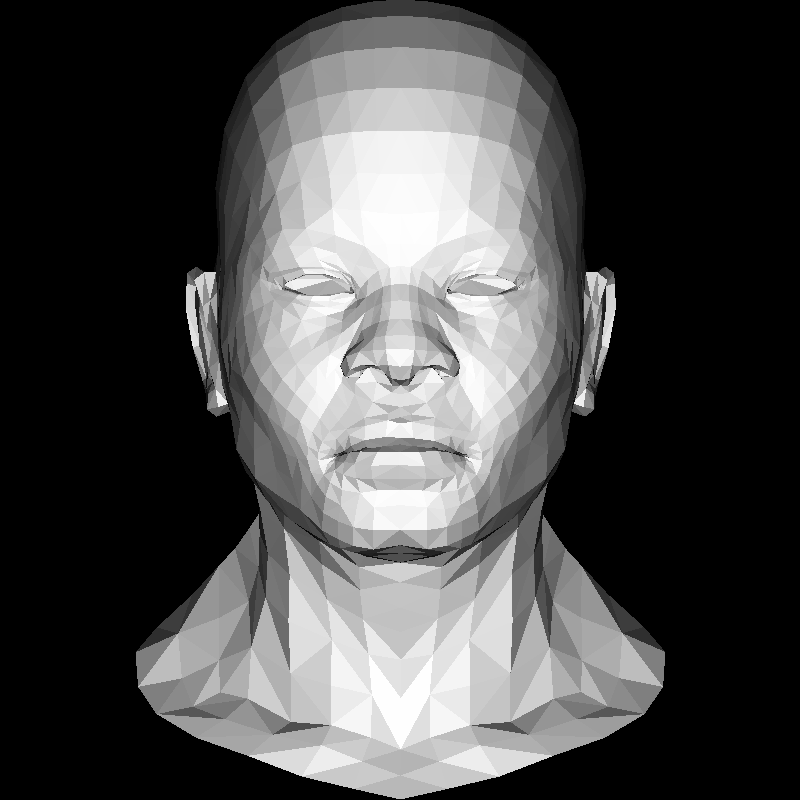
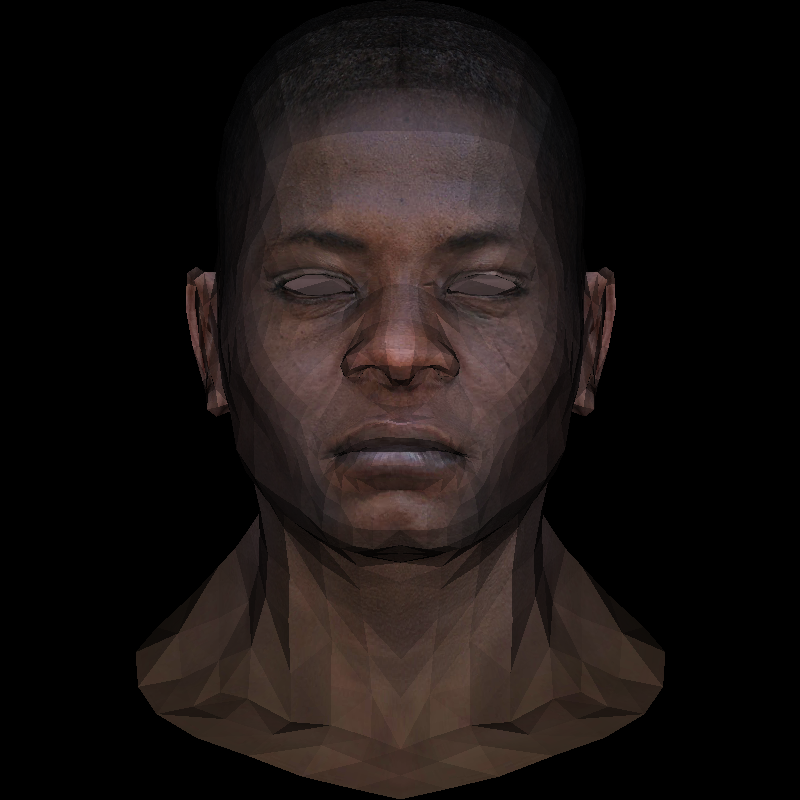
flat shading render with texture

diff --git a/src/lib.rs b/src/lib.rs
@@ -2,7 +2,7 @@
 
 use {
     nalgebra::{Point2, Point3, Vector, Vector3},
-    obj::Obj,
+    obj::{Obj, TexturedVertex},
 };
 
 pub use failure::Error;
@@ -87,6 +87,15 @@ fn barycentric(pts: [Point2<f32>; 3], p: Point2<f32>) -> Point3<f32> {
     }
 }
 
+fn un_barycentric(pts: [Point2<f32>; 3], p: Point3<f32>) -> Point2<f32> {
+    use nalgebra::Matrix2x3;
+
+    let m = Matrix2x3::from_columns(&[pts[0].coords, pts[1].coords, pts[2].coords]).transpose();
+    let v = p.coords.transpose() * m;
+
+    Point2::new(v[0], v[1])
+}
+
 pub fn triangle(pts: [Point2<f32>; 3], image: &mut Image, color: Color) {
     let bbox_min_x = f32::min(f32::min(pts[0][0], pts[1][0]), pts[2][0]);
     let bbox_min_y = f32::min(f32::min(pts[0][1], pts[1][1]), pts[2][1]);
@@ -133,6 +142,59 @@ pub fn triangle_with_zbuffer(
                 let idx = coord_to_idx(x, y, image.width);
 
                 if zbuffer[idx] < z {
+                    zbuffer[idx] = z;
+                    image.data[idx] = color;
+                }
+            }
+        }
+    }
+}
+
+pub fn triangle_with_zbuffer_with_texture(
+    pts: [Point3<f32>; 3],
+    zbuffer: &mut [f32],
+    image: &mut Image,
+    texture: &Image,
+    texture_coords: [Point3<f32>; 3],
+    intensity: f32,
+) {
+    let bbox_min_x = f32::min(f32::min(pts[0][0], pts[1][0]), pts[2][0]);
+    let bbox_min_y = f32::min(f32::min(pts[0][1], pts[1][1]), pts[2][1]);
+    let bbox_max_x = f32::max(f32::max(pts[0][0], pts[1][0]), pts[2][0]);
+    let bbox_max_y = f32::max(f32::max(pts[0][1], pts[1][1]), pts[2][1]);
+
+    for x in (bbox_min_x.floor() as u32)..(bbox_max_x.ceil() as u32) {
+        for y in (bbox_min_y.floor() as u32)..(bbox_max_y.ceil() as u32) {
+            let p = Point2::new(x as f32, y as f32);
+
+            let bc_screen = barycentric([pts[0].xy(), pts[1].xy(), pts[2].xy()], p);
+
+            if bc_screen[0] >= 0f32 && bc_screen[1] >= 0f32 && bc_screen[2] >= 0f32 {
+                let mut z = 0f32;
+
+                for i in 0..3 {
+                    z += pts[i][2] * bc_screen[i];
+                }
+
+                let idx = coord_to_idx(x, y, image.width);
+
+                if zbuffer[idx] < z {
+                    let texture_coords = texture_coords
+                        .iter()
+                        .map(|vt| {
+                            Point2::new(vt[0] * texture.width as f32, vt[1] * texture.height as f32)
+                        })
+                        .collect::<Vec<_>>();
+
+                    let vt = un_barycentric(
+                        [texture_coords[0], texture_coords[2], texture_coords[1]],
+                        bc_screen,
+                    );
+
+                    let t_idx = coord_to_idx(vt[0] as u32, vt[1] as u32, texture.width);
+
+                    let color = texture.data[t_idx] * intensity;
+
                     zbuffer[idx] = z;
                     image.data[idx] = color;
                 }
@@ -199,6 +261,56 @@ pub fn render_flat_shading(model: &Obj, image: &mut Image, color: Color, light_d
                 &mut zbuffer,
                 image,
                 color,
+            );
+        }
+    }
+}
+
+pub fn render_flat_shading_with_texture(
+    model: &Obj<TexturedVertex>,
+    image: &mut Image,
+    texture: &Image,
+    light_dir: Vector3<f32>,
+) {
+    let mut zbuffer = vec![std::f32::MIN; image.height as usize * image.width as usize];
+
+    for face in model.indices.chunks_exact(3) {
+        let (mut screen_coords, mut world_coords, mut texture_coords): (
+            Vec<Point3<_>>,
+            Vec<Vector3<_>>,
+            Vec<Point3<_>>,
+        ) = (
+            Vec::with_capacity(3),
+            Vec::with_capacity(3),
+            Vec::with_capacity(3),
+        );
+
+        for &i in face {
+            let v = model.vertices[i as usize];
+            let vp: Vector3<_> = v.position.into();
+            let vt: Vector3<_> = v.texture.into();
+
+            screen_coords.push(world_to_screen_coords(vp, image.width, image.height).into());
+            world_coords.push(vp);
+            texture_coords.push(vt.into());
+        }
+
+        let (screen_coords, world_coords, texture_coords) =
+            (screen_coords, world_coords, texture_coords);
+
+        let n = (world_coords[2] - world_coords[0])
+            .cross(&(world_coords[1] - world_coords[0]))
+            .normalize();
+        let intensity = n.dot(&light_dir);
+
+        if intensity > 0f32 {
+            triangle_with_zbuffer_with_texture(
+                [screen_coords[0], screen_coords[1], screen_coords[2]],
+                &mut zbuffer,
+                image,
+                texture,
+                [texture_coords[0], texture_coords[1], texture_coords[2]],
+                intensity,
             );
         }
     }

diff --git a/src/main.rs b/src/main.rs
@@ -1,13 +1,14 @@
 use {
     nalgebra::Vector3,
-    obj::{load_obj, Obj},
+    obj::{load_obj, Obj, TexturedVertex},
+    png::Decoder,
     std::io::BufReader,
     std::{env::args, fs::File},
     tinyrenderer::*,
 };
 
 const BLACK: Color = Color::from_rgba(0, 0, 0, 255);
-const WHITE: Color = Color::from_rgba(255, 255, 255, 255);
+// const WHITE: Color = Color::from_rgba(255, 255, 255, 255);
 // const RED: Color = Color::from_rgba(255, 0, 0, 255);
 // const GREEN: Color = Color::from_rgba(0, 255, 0, 255);
 // const BLUE: Color = Color::from_rgba(0, 0, 255, 255);
@@ -24,13 +25,44 @@ fn main() -> Result<(), Error> {
         .unwrap_or_else(|| "obj/african_head.obj".to_string());
     let obj_file = File::open(&obj_file_name)?;
     let obj_file_buf_reader = BufReader::new(obj_file);
-    let model: Obj = load_obj(obj_file_buf_reader)?;
+    let model: Obj<TexturedVertex> = load_obj(obj_file_buf_reader)?;
+
+    let texture_file_name = args
+        .next()
+        .unwrap_or_else(|| "obj/african_head_diffuse.png".to_string());
+    let texture_file = File::open(&texture_file_name)?;
+    let texture_decoder = Decoder::new(texture_file);
+    let (texture_info, mut texture_reader) = texture_decoder.read_info()?;
+    let mut buf = vec![0; texture_info.buffer_size()];
+    texture_reader.next_frame(&mut buf)?;
+
+    let mut texture = Image {
+        width: texture_info.width,
+        height: texture_info.height,
+        data: match texture_info.color_type {
+            png::ColorType::RGB => buf
+                .chunks_exact(3)
+                .map(|c| Color::from_rgba(c[0], c[1], c[2], 255))
+                .collect(),
+            png::ColorType::RGBA => buf
+                .chunks_exact(4)
+                .map(|c| Color::from_rgba(c[0], c[1], c[2], c[3]))
+                .collect(),
+            _ => unimplemented!(),
+        },
+    };
+    texture.flip_vertically();
 
     let out_file_name = args.next().unwrap_or_else(|| "output.png".to_string());
     let out_file = File::create(&out_file_name)?;
 
     let mut image = Image::with_background(WIDTH, HEIGHT, BLACK);
-    render_flat_shading(&model, &mut image, WHITE, Vector3::new(0f32, 0f32, -1f32));
+    render_flat_shading_with_texture(
+        &model,
+        &mut image,
+        &texture,
+        Vector3::new(0f32, 0f32, -1f32),
+    );
 
     image.flip_vertically().write_png(out_file)?;
 
